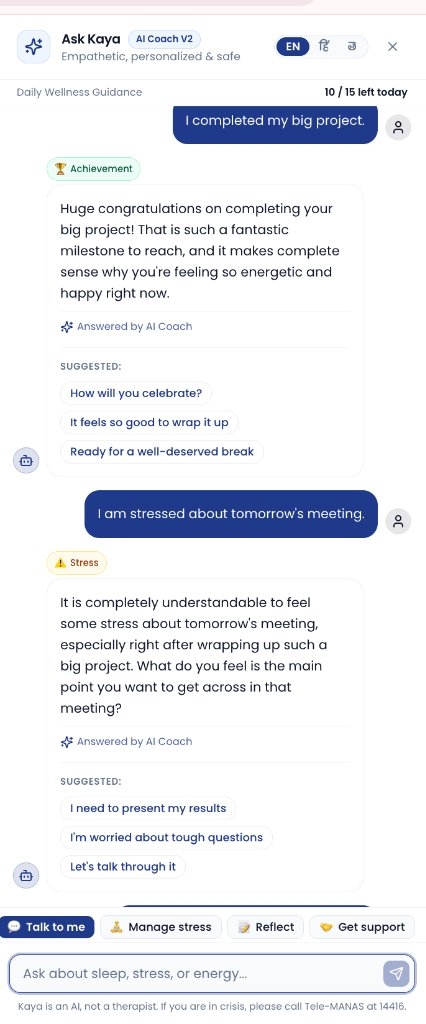
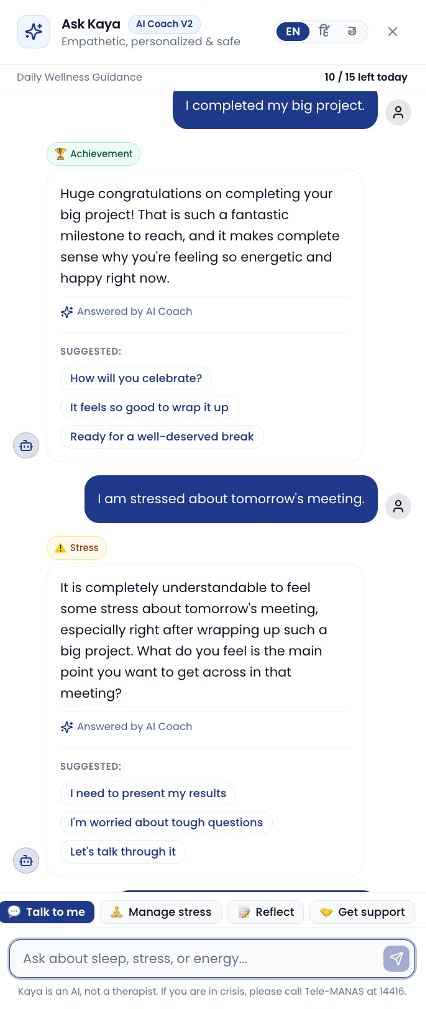
Crop browser address bars and enhance image clarity in gallery

diff --git a/src/components/sections/Sections.jsx b/src/components/sections/Sections.jsx
@@ -127,12 +127,12 @@ export function Hero() {
             {/* Viewport Frame */}
             <div
               onClick={() => setLightbox(true)}
-              className="group relative aspect-[16/10.5] w-full cursor-pointer overflow-hidden bg-[#F8FAF8]"
+              className="group relative aspect-[16/9.5] w-full cursor-pointer overflow-hidden bg-[#F8FAF8]"
             >
               {current.isMobile ? (
                 // Mobile Chat UI centered inside container
                 <div className="flex h-full w-full items-center justify-center p-3">
-                  <div className="h-full max-h-[340px] aspect-[426/750] overflow-hidden rounded-2xl border-2 border-teal/20 shadow-xl bg-white">
+                  <div className="h-full max-h-[350px] aspect-[426/750] overflow-hidden rounded-2xl border-2 border-teal/20 shadow-xl bg-white">
                     <img
                       src={current.image}
                       alt={current.title}
